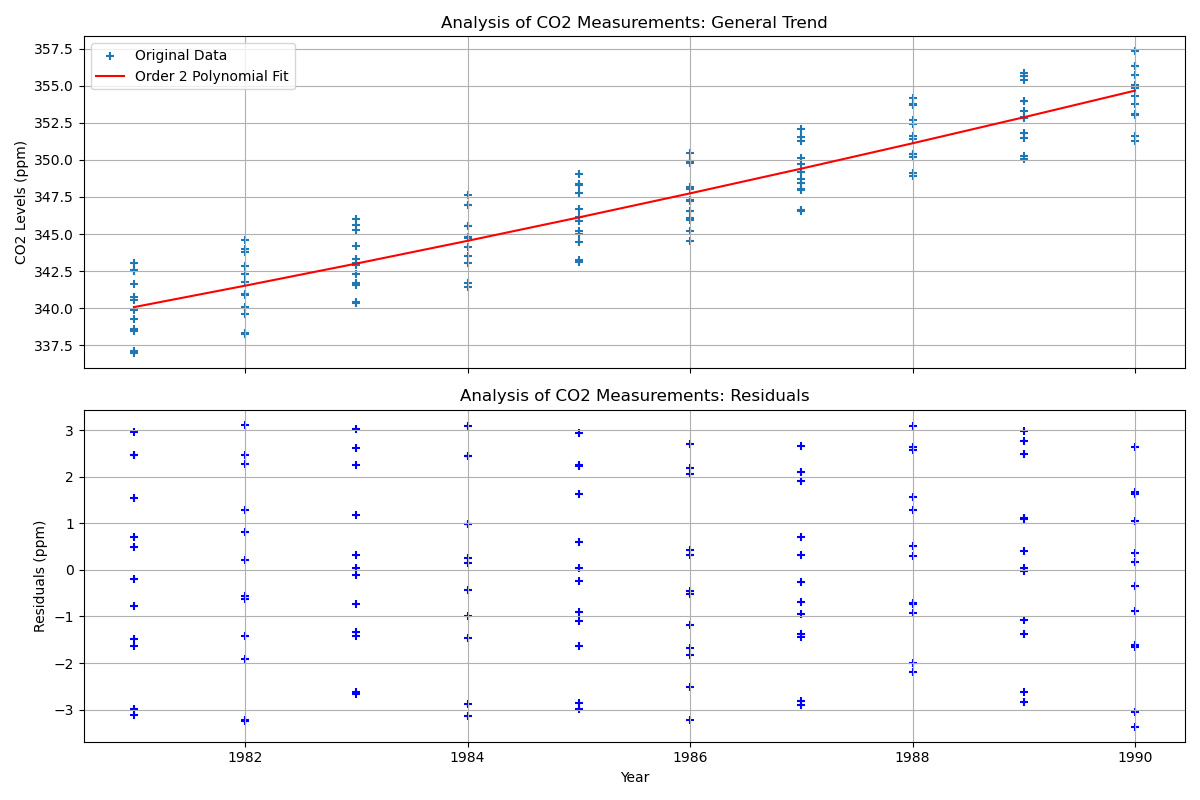
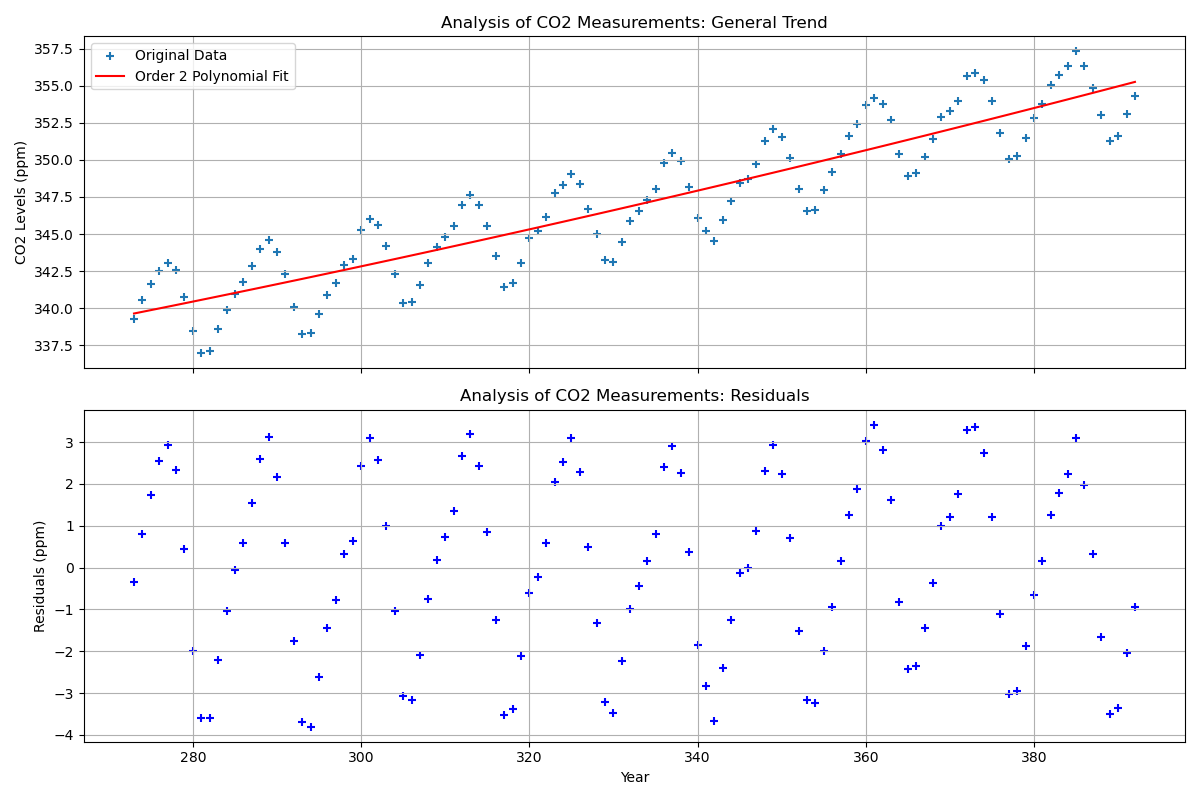
Fixed the code so filtered_data.index served as the independent variable in both the polynomial fitting and residual calculations

diff --git a/NairMalavika_Lab12.py b/NairMalavika_Lab12.py
@@ -1,6 +1,8 @@
 import pandas as pd
 import numpy as np
 import matplotlib.pyplot as plt
+from scipy.optimize import curve_fit
+from scipy.fft import fft, fftfreq
 
 
 
@@ -19,14 +21,19 @@ plt.grid()
 plt.show()
 
 
-years = filtered_data['year']
+
+
+
+
+
+
+years = filtered_data.index
 co2_levels = filtered_data['average']
 poly_order = 2  
 
-normalized_years = years - years.min()
-poly_coeffs = np.polynomial.polynomial.polyfit(normalized_years, co2_levels, deg=poly_order)
+poly_coeffs = np.polynomial.polynomial.polyfit(years, co2_levels, deg=poly_order)
 
-trend = np.polynomial.polynomial.polyval(normalized_years, poly_coeffs)
+trend = np.polynomial.polynomial.polyval(years, poly_coeffs)
 
 residuals = co2_levels - trend
 
